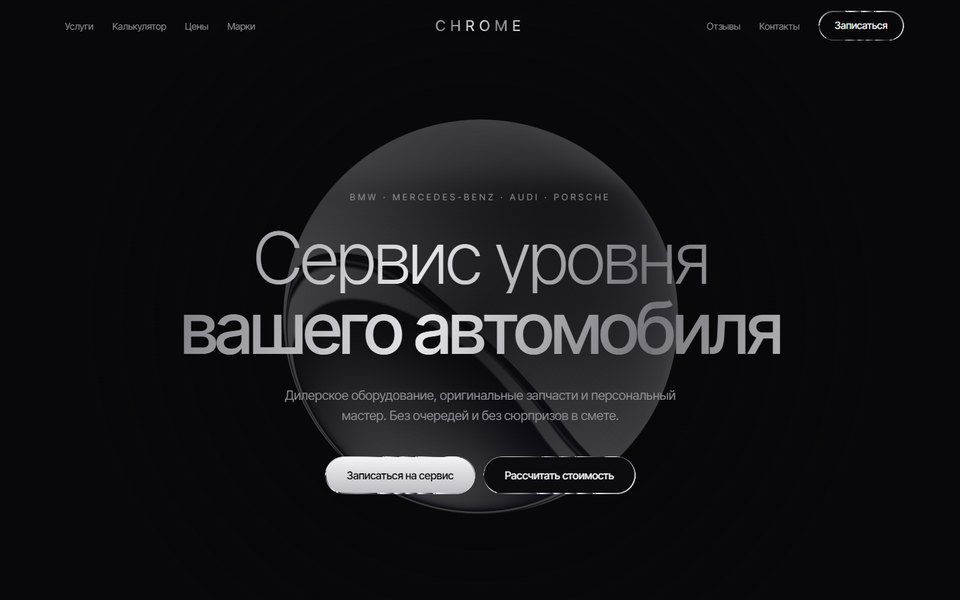
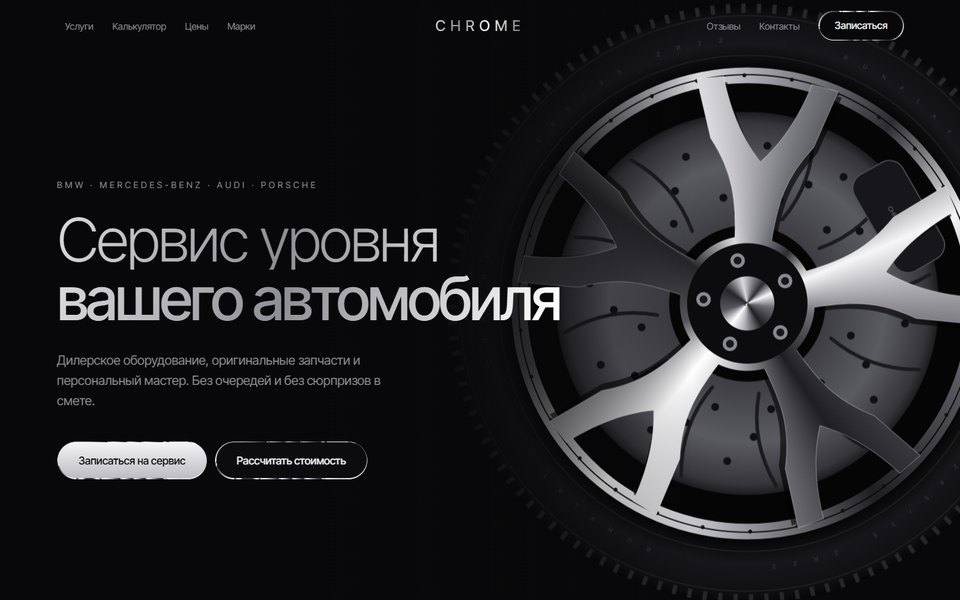
Портфолио: новое превью CHROME с вращающимся диском

diff --git a/index.html b/index.html
@@ -20,7 +20,7 @@
 <link rel="preconnect" href="https://fonts.googleapis.com">
 <link rel="preconnect" href="https://fonts.gstatic.com" crossorigin>
 <link href="https://fonts.googleapis.com/css2?family=Unbounded:wght@400;600;800;900&family=JetBrains+Mono:wght@400;600&display=swap" rel="stylesheet">
-<script src="assets/projects.js?v=20261108a"></script>
+<script src="assets/projects.js?v=20261108b"></script>
 <style>
 :root{--bg:#0c0c0c;--tx:#f1f1ee;--mu:#8a8a85;--ln:#2a2a28;--ac:#d4ff3f;--pad:clamp(16px,3.5vw,48px);--ease:cubic-bezier(.22,1,.36,1)}
 *{box-sizing:border-box}

diff --git a/assets/projects.js b/assets/projects.js
@@ -36,7 +36,7 @@ window.PROJECTS = [
   {
     id: 'chrome', name: 'CHROME', type: 'Автосервис: смета + запись', logo: 'CHROME',
     headline: 'Сервис уровня вашего автомобиля', cta: 'Записаться',
-    url: 'https://prohorusa75-code.github.io/chrome/', live: true, img: 'assets/works/chrome.jpg',
+    url: 'https://prohorusa75-code.github.io/chrome/', live: true, img: 'assets/works/chrome.jpg?v=2',
     t: { bg: '#08080a', fg: '#ededf0', ac: '#f4f4f6', ff: "'Manrope',sans-serif", shape: 'blob' }
   }
 ];
